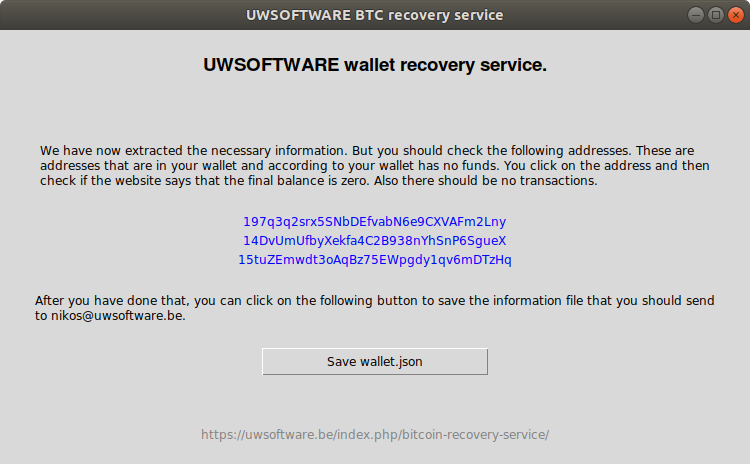
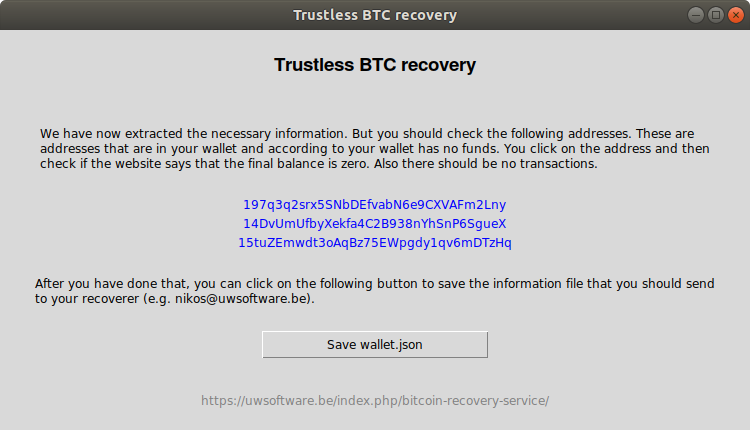
Remove the Uwsoftware branding

diff --git a/trustless_btc_recovery.py b/trustless_btc_recovery.py
@@ -681,7 +681,7 @@ def blockchainDoneFrame(wallet_data):
     container = tk.Frame(root)
     container.place(relx=0.5, rely=0.5, anchor=tk.CENTER, relwidth=1, width=-20)
 
-    message = tk.Message(container, text='Success. You have retrieved the Blockchain info. Send the data below and a list of possible passwords to nikos@uwsoftware.be. He will bruteforce your password for a 15% fee of your BTC.')
+    message = tk.Message(container, text='Success. You have retrieved the Blockchain info. Send the data below and a list of possible passwords to your recoverer (e.g. nikos@uwsoftware.be). He will bruteforce your password for a fee of your BTC.')
     message.bind("<Configure>", lambda e: message.configure(width=e.width-20))
     message.pack(fill=tk.X,padx=10,pady=20)
     
@@ -756,7 +756,7 @@ def saveJSONFrame():
         container = tk.Frame(root)
         container.place(relx=0.5, rely=0.5, anchor=tk.CENTER, relwidth=1, width=-20)
 
-        label = tk.Message(container, text='Success. You have saved the wallet info file. Send this file and a list of possible passwords to nikos@uwsoftware.be. He will bruteforce your password for a 15% fee of your BTC.')
+        label = tk.Message(container, text='Success. You have saved the wallet info file. Send this file and a list of possible passwords to your recoverer (e.g. nikos@uwsoftware.be). He will bruteforce your password for a fee of your BTC.')
         label.bind("<Configure>", lambda e: label.configure(width=e.width-20))
         label.pack(fill=tk.X,padx=10,pady=20)
 
@@ -793,7 +793,7 @@ def walletDetailsFrame(wallet=None):
             label.pack()
             label.bind("<Button-1>", blockchain_callback)
 
-        label = tk.Message(container, text='After you have done that, you can click on the following button to save the information file that you should send to nikos@uwsoftware.be.')
+        label = tk.Message(container, text='After you have done that, you can click on the following button to save the information file that you should send to your recoverer (e.g. nikos@uwsoftware.be).')
         label.bind("<Configure>", lambda e: label.configure(width=e.width-20))
         label.pack(fill=tk.X,padx=10,pady=20)
 
@@ -806,11 +806,11 @@ def main():
     global root, container
 
     root = tk.Tk()
-    root.title("UWSOFTWARE BTC recovery service")
+    root.title("Trustless BTC recovery")
     root.minsize(width=750,height=400)
     chooseMethodFrame()
     
-    label = tk.Label(root, text='UWSOFTWARE wallet recovery service.', font='Helvetica 14 bold')
+    label = tk.Label(root, text='Trustless BTC recovery', font='Helvetica 14 bold')
     label.pack(fill=tk.X,pady=20,side=tk.TOP)
 
     label = tk.Label(root, text='https://uwsoftware.be/index.php/bitcoin-recovery-service/', fg="grey")
